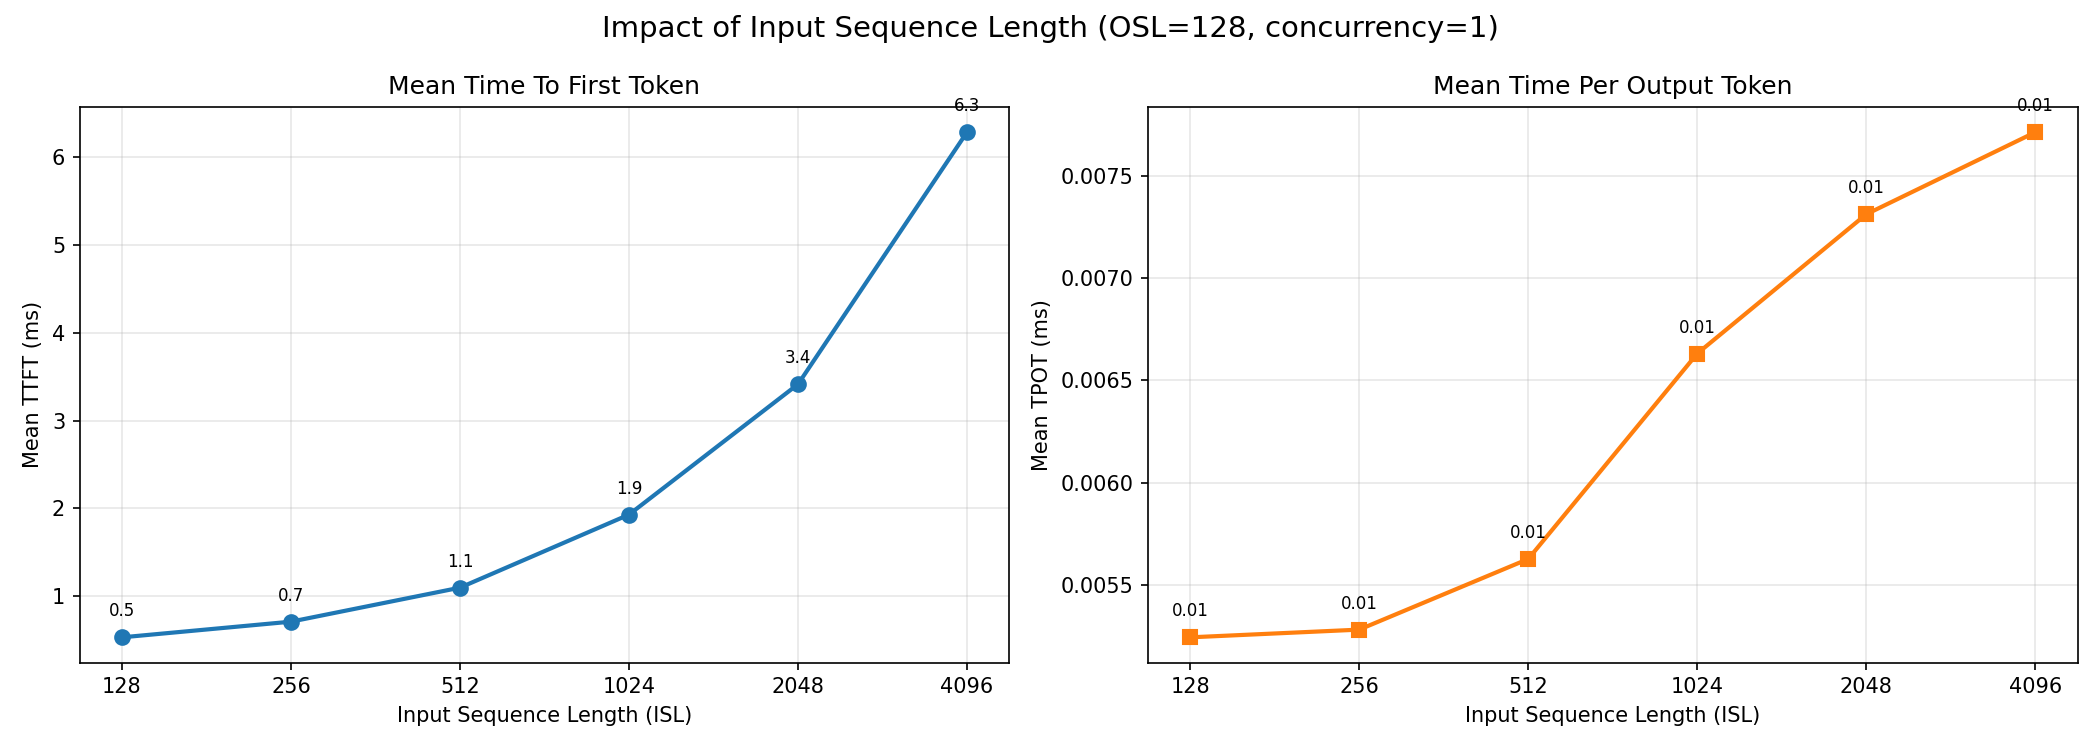
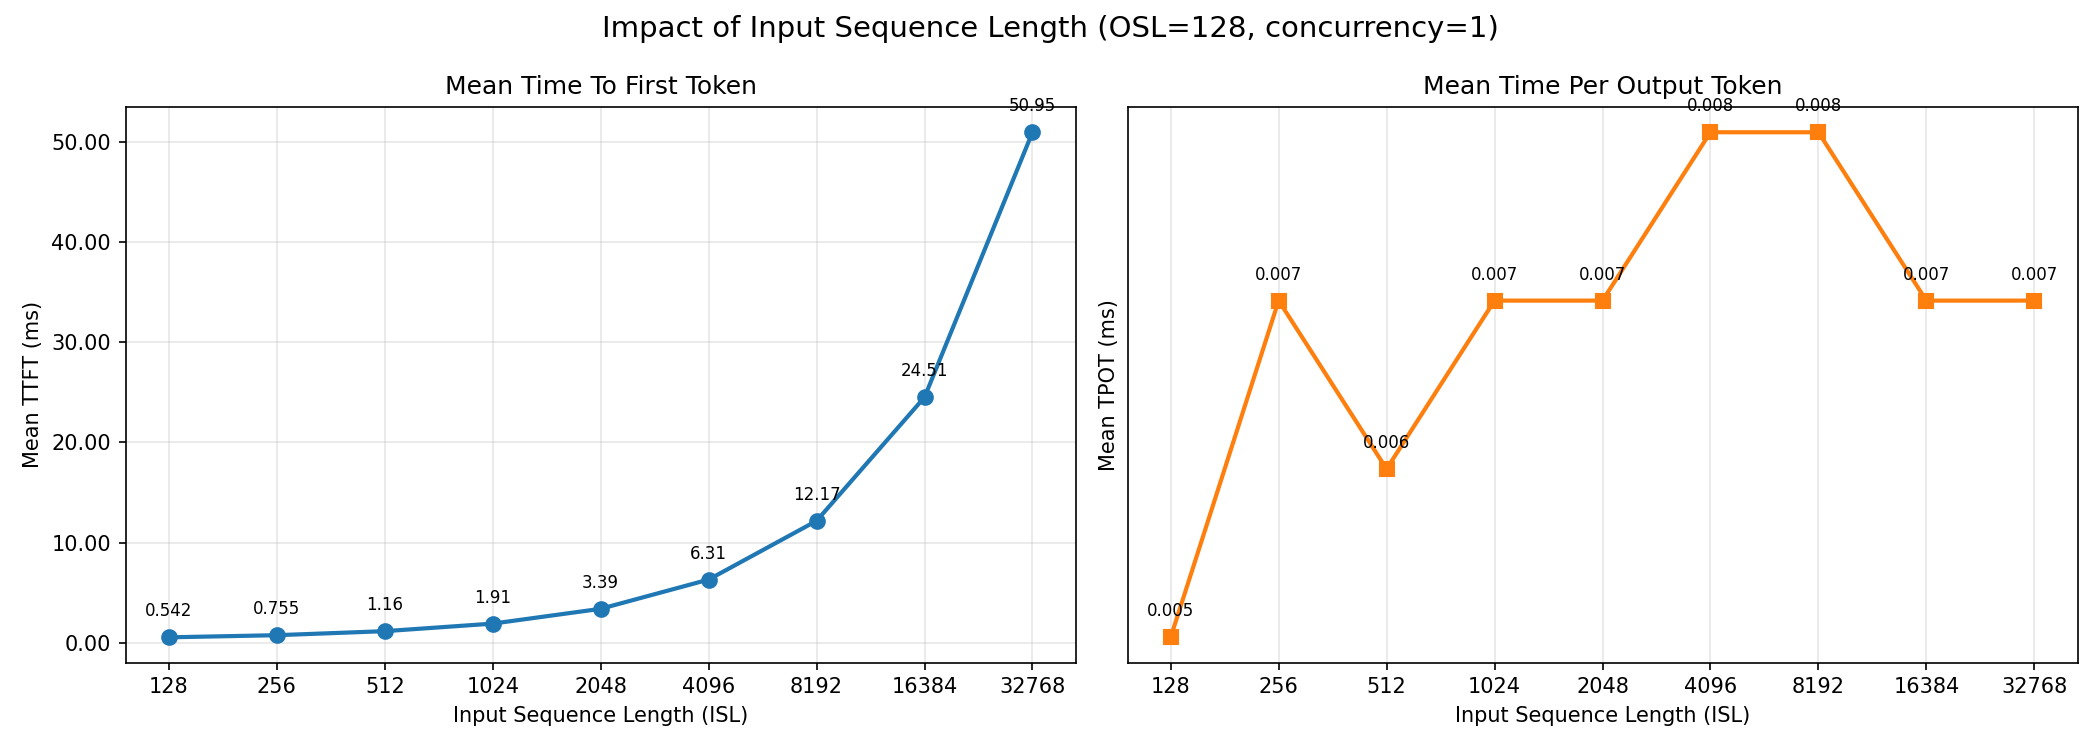
Update

diff --git a/tt-media-server/cpp_server/benchmarks/plot_benchmarks.py b/tt-media-server/cpp_server/benchmarks/plot_benchmarks.py
@@ -8,7 +8,16 @@ import sys
 from pathlib import Path
 
 import matplotlib.pyplot as plt
+import matplotlib.ticker as mtick
 import numpy as np
+
+MIN_LATENCY_MS = 0.001  # 1µs minimum granularity: values are rounded to this before plotting
+TPOT_TICK_STEP_MS = 0.05  # 50µs tick step for TPOT axes when range is small
+
+
+def round_latency_ms(value_ms: float) -> float:
+    """Round latency to minimum granularity (1µs) so the chart is flat when values are effectively equal."""
+    return round(value_ms / MIN_LATENCY_MS) * MIN_LATENCY_MS
 
 FILENAME_PATTERN = re.compile(
     r"bench_isl(?P<isl>\d+)_osl(?P<osl>\d+)_conc(?P<conc>\d+)_(?P<ts>[\d-]+)\.json"
@@ -37,6 +46,27 @@ def filter_records(records, **kwargs):
     return sorted(out, key=lambda r: (r["_isl"], r["_osl"], r["_conc"]))
 
 
+def format_latency_ms(value_ms: float, decimals: int | None = None) -> str:
+    """Format latency in ms with at least 1µs granularity (0.001 ms)."""
+    if decimals is not None:
+        return f"{value_ms:.{decimals}f}"
+    if value_ms < 1 and value_ms >= MIN_LATENCY_MS:
+        return f"{value_ms:.3f}"
+    if value_ms < MIN_LATENCY_MS and value_ms > 0:
+        return f"{value_ms:.3f}"
+    return f"{value_ms:.2f}"
+
+
+def setup_latency_axis(ax, is_tpot: bool = False):
+    """Set y-axis formatter and optional tick step for latency (ms), min granularity 1µs."""
+    ax.yaxis.set_major_formatter(mtick.FuncFormatter(lambda x, _: format_latency_ms(x)))
+    if is_tpot:
+        ymin, ymax = ax.get_ylim()
+        if 0 <= ymin and ymax - ymin <= 0.5:
+            ax.yaxis.set_major_locator(mtick.MultipleLocator(TPOT_TICK_STEP_MS))
+    ax.autoscale(axis="y")
+
+
 def plot_phase1_isl(records, fixed_osl: int, output_dir: Path):
     """Impact of increasing ISL on TTFT and TPOT (concurrency=1)."""
     data = filter_records(records, _osl=fixed_osl, _conc=1)
@@ -44,8 +74,8 @@ def plot_phase1_isl(records, fixed_osl: int, output_dir: Path):
         print(f"  No data for Phase 1 (OSL={fixed_osl}, conc=1)")
         return
     isls = [r["_isl"] for r in data]
-    ttfts = [r["mean_ttft_ms"] for r in data]
-    tpots = [r["mean_tpot_ms"] for r in data]
+    ttfts = [round_latency_ms(r["mean_ttft_ms"]) for r in data]
+    tpots = [round_latency_ms(r["mean_tpot_ms"]) for r in data]
 
     fig, (ax1, ax2) = plt.subplots(1, 2, figsize=(14, 5))
     fig.suptitle(f"Impact of Input Sequence Length (OSL={fixed_osl}, concurrency=1)", fontsize=14)
@@ -57,9 +87,10 @@ def plot_phase1_isl(records, fixed_osl: int, output_dir: Path):
     ax1.set_xscale("log", base=2)
     ax1.set_xticks(isls)
     ax1.set_xticklabels([str(x) for x in isls])
+    setup_latency_axis(ax1, is_tpot=False)
     ax1.grid(True, alpha=0.3)
     for x, y in zip(isls, ttfts):
-        ax1.annotate(f"{y:.1f}", (x, y), textcoords="offset points", xytext=(0, 10), ha="center", fontsize=8)
+        ax1.annotate(format_latency_ms(y), (x, y), textcoords="offset points", xytext=(0, 10), ha="center", fontsize=8)
 
     ax2.plot(isls, tpots, "s-", color="tab:orange", linewidth=2, markersize=7)
     ax2.set_xlabel("Input Sequence Length (ISL)")
@@ -68,9 +99,10 @@ def plot_phase1_isl(records, fixed_osl: int, output_dir: Path):
     ax2.set_xscale("log", base=2)
     ax2.set_xticks(isls)
     ax2.set_xticklabels([str(x) for x in isls])
+    setup_latency_axis(ax2, is_tpot=True)
     ax2.grid(True, alpha=0.3)
     for x, y in zip(isls, tpots):
-        ax2.annotate(f"{y:.2f}", (x, y), textcoords="offset points", xytext=(0, 10), ha="center", fontsize=8)
+        ax2.annotate(format_latency_ms(y), (x, y), textcoords="offset points", xytext=(0, 10), ha="center", fontsize=8)
 
     plt.tight_layout()
     dest = output_dir / "phase1_isl_impact.png"
@@ -86,8 +118,8 @@ def plot_phase2_osl(records, fixed_isl: int, output_dir: Path):
         print(f"  No data for Phase 2 (ISL={fixed_isl}, conc=1)")
         return
     osls = [r["_osl"] for r in data]
-    ttfts = [r["mean_ttft_ms"] for r in data]
-    tpots = [r["mean_tpot_ms"] for r in data]
+    ttfts = [round_latency_ms(r["mean_ttft_ms"]) for r in data]
+    tpots = [round_latency_ms(r["mean_tpot_ms"]) for r in data]
 
     fig, (ax1, ax2) = plt.subplots(1, 2, figsize=(14, 5))
     fig.suptitle(f"Impact of Output Sequence Length (ISL={fixed_isl}, concurrency=1)", fontsize=14)
@@ -99,9 +131,10 @@ def plot_phase2_osl(records, fixed_isl: int, output_dir: Path):
     ax1.set_xscale("log", base=2)
     ax1.set_xticks(osls)
     ax1.set_xticklabels([str(x) for x in osls])
+    setup_latency_axis(ax1, is_tpot=False)
     ax1.grid(True, alpha=0.3)
     for x, y in zip(osls, ttfts):
-        ax1.annotate(f"{y:.1f}", (x, y), textcoords="offset points", xytext=(0, 10), ha="center", fontsize=8)
+        ax1.annotate(format_latency_ms(y), (x, y), textcoords="offset points", xytext=(0, 10), ha="center", fontsize=8)
 
     ax2.plot(osls, tpots, "s-", color="tab:orange", linewidth=2, markersize=7)
     ax2.set_xlabel("Output Sequence Length (OSL)")
@@ -110,9 +143,10 @@ def plot_phase2_osl(records, fixed_isl: int, output_dir: Path):
     ax2.set_xscale("log", base=2)
     ax2.set_xticks(osls)
     ax2.set_xticklabels([str(x) for x in osls])
+    setup_latency_axis(ax2, is_tpot=True)
     ax2.grid(True, alpha=0.3)
     for x, y in zip(osls, tpots):
-        ax2.annotate(f"{y:.2f}", (x, y), textcoords="offset points", xytext=(0, 10), ha="center", fontsize=8)
+        ax2.annotate(format_latency_ms(y), (x, y), textcoords="offset points", xytext=(0, 10), ha="center", fontsize=8)
 
     plt.tight_layout()
     dest = output_dir / "phase2_osl_impact.png"
@@ -122,21 +156,20 @@ def plot_phase2_osl(records, fixed_isl: int, output_dir: Path):
 
 
 def plot_phase3_concurrency(records, fixed_isl: int, fixed_osl: int, output_dir: Path):
-    """Impact of increasing concurrency on TTFT, TPOT, and throughput."""
+    """Impact of increasing concurrency on TTFT, TPOT, and request throughput."""
     data = filter_records(records, _isl=fixed_isl, _osl=fixed_osl)
     if not data:
         print(f"  No data for Phase 3 (ISL={fixed_isl}, OSL={fixed_osl})")
         return
     concs = [r["_conc"] for r in data]
-    ttfts = [r["mean_ttft_ms"] for r in data]
-    tpots = [r["mean_tpot_ms"] for r in data]
+    ttfts = [round_latency_ms(r["mean_ttft_ms"]) for r in data]
+    tpots = [round_latency_ms(r["mean_tpot_ms"]) for r in data]
     req_thr = [r["request_throughput"] for r in data]
-    out_thr = [r["output_throughput"] for r in data]
 
-    fig, axes = plt.subplots(2, 2, figsize=(14, 10))
+    fig, axes = plt.subplots(1, 3, figsize=(14, 5))
     fig.suptitle(f"Impact of Concurrency (ISL={fixed_isl}, OSL={fixed_osl})", fontsize=14)
 
-    ax = axes[0, 0]
+    ax = axes[0]
     ax.plot(concs, ttfts, "o-", color="tab:blue", linewidth=2, markersize=7)
     ax.set_xlabel("Max Concurrency")
     ax.set_ylabel("Mean TTFT (ms)")
@@ -144,11 +177,12 @@ def plot_phase3_concurrency(records, fixed_isl: int, fixed_osl: int, output_dir:
     ax.set_xscale("log", base=2)
     ax.set_xticks(concs)
     ax.set_xticklabels([str(x) for x in concs])
+    setup_latency_axis(ax, is_tpot=False)
     ax.grid(True, alpha=0.3)
     for x, y in zip(concs, ttfts):
-        ax.annotate(f"{y:.1f}", (x, y), textcoords="offset points", xytext=(0, 10), ha="center", fontsize=8)
+        ax.annotate(format_latency_ms(y), (x, y), textcoords="offset points", xytext=(0, 10), ha="center", fontsize=8)
 
-    ax = axes[0, 1]
+    ax = axes[1]
     ax.plot(concs, tpots, "s-", color="tab:orange", linewidth=2, markersize=7)
     ax.set_xlabel("Max Concurrency")
     ax.set_ylabel("Mean TPOT (ms)")
@@ -156,11 +190,12 @@ def plot_phase3_concurrency(records, fixed_isl: int, fixed_osl: int, output_dir:
     ax.set_xscale("log", base=2)
     ax.set_xticks(concs)
     ax.set_xticklabels([str(x) for x in concs])
+    setup_latency_axis(ax, is_tpot=True)
     ax.grid(True, alpha=0.3)
     for x, y in zip(concs, tpots):
-        ax.annotate(f"{y:.2f}", (x, y), textcoords="offset points", xytext=(0, 10), ha="center", fontsize=8)
+        ax.annotate(format_latency_ms(y), (x, y), textcoords="offset points", xytext=(0, 10), ha="center", fontsize=8)
 
-    ax = axes[1, 0]
+    ax = axes[2]
     ax.plot(concs, req_thr, "D-", color="tab:green", linewidth=2, markersize=7)
     ax.set_xlabel("Max Concurrency")
     ax.set_ylabel("Requests/s")
@@ -171,18 +206,6 @@ def plot_phase3_concurrency(records, fixed_isl: int, fixed_osl: int, output_dir:
     ax.grid(True, alpha=0.3)
     for x, y in zip(concs, req_thr):
         ax.annotate(f"{y:.1f}", (x, y), textcoords="offset points", xytext=(0, 10), ha="center", fontsize=8)
-
-    ax = axes[1, 1]
-    ax.plot(concs, out_thr, "^-", color="tab:red", linewidth=2, markersize=7)
-    ax.set_xlabel("Max Concurrency")
-    ax.set_ylabel("Tokens/s")
-    ax.set_title("Output Token Throughput")
-    ax.set_xscale("log", base=2)
-    ax.set_xticks(concs)
-    ax.set_xticklabels([str(x) for x in concs])
-    ax.grid(True, alpha=0.3)
-    for x, y in zip(concs, out_thr):
-        ax.annotate(f"{y:.0f}", (x, y), textcoords="offset points", xytext=(0, 10), ha="center", fontsize=8)
 
     plt.tight_layout()
     dest = output_dir / "phase3_concurrency_impact.png"
